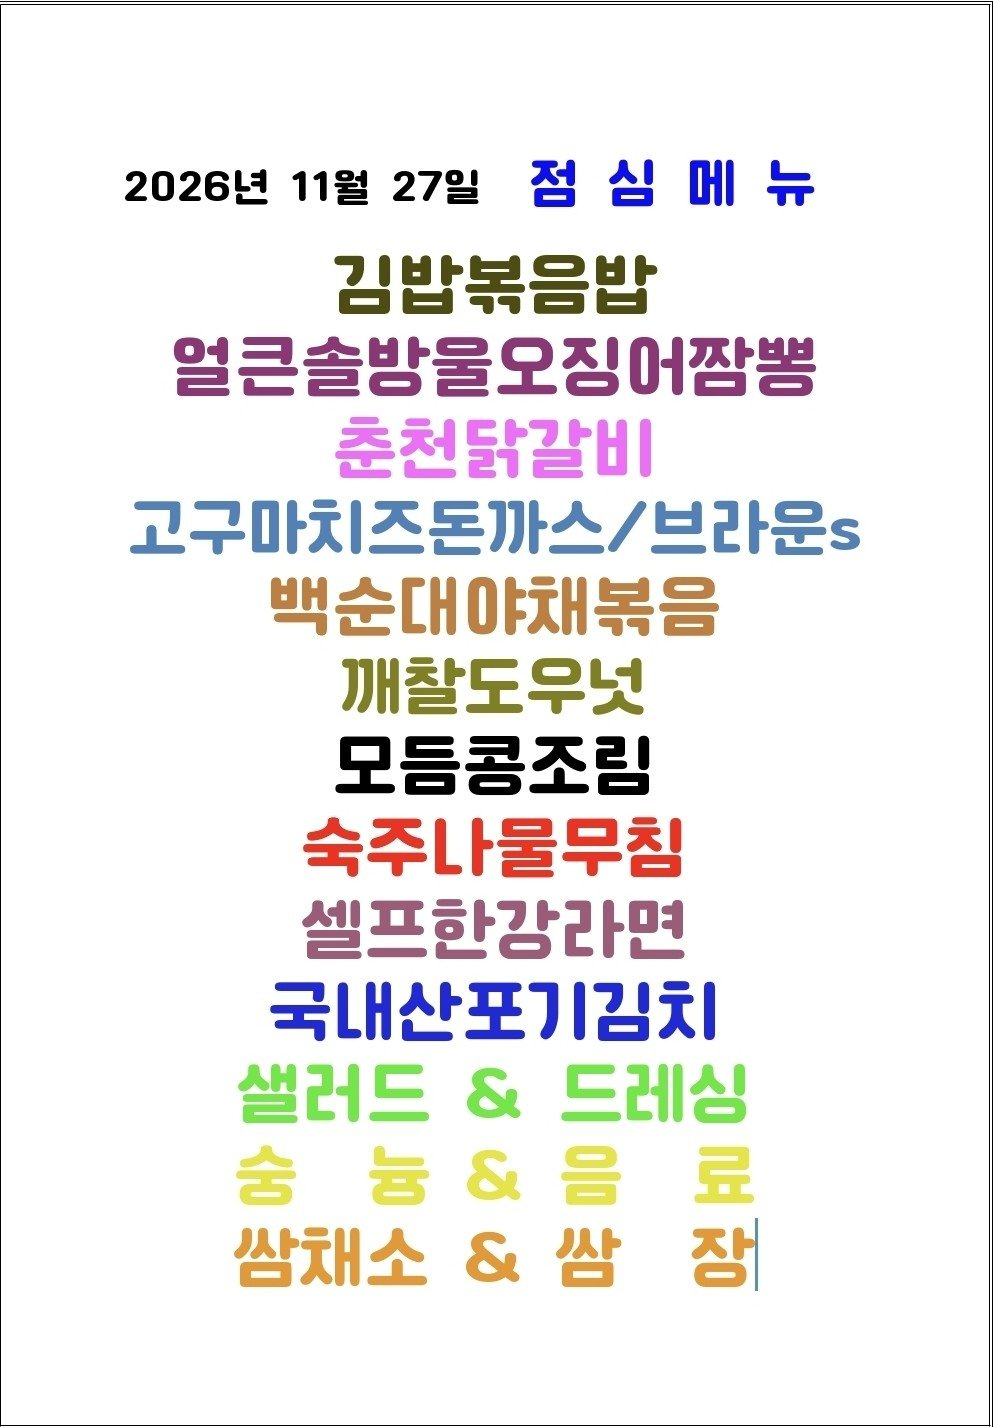
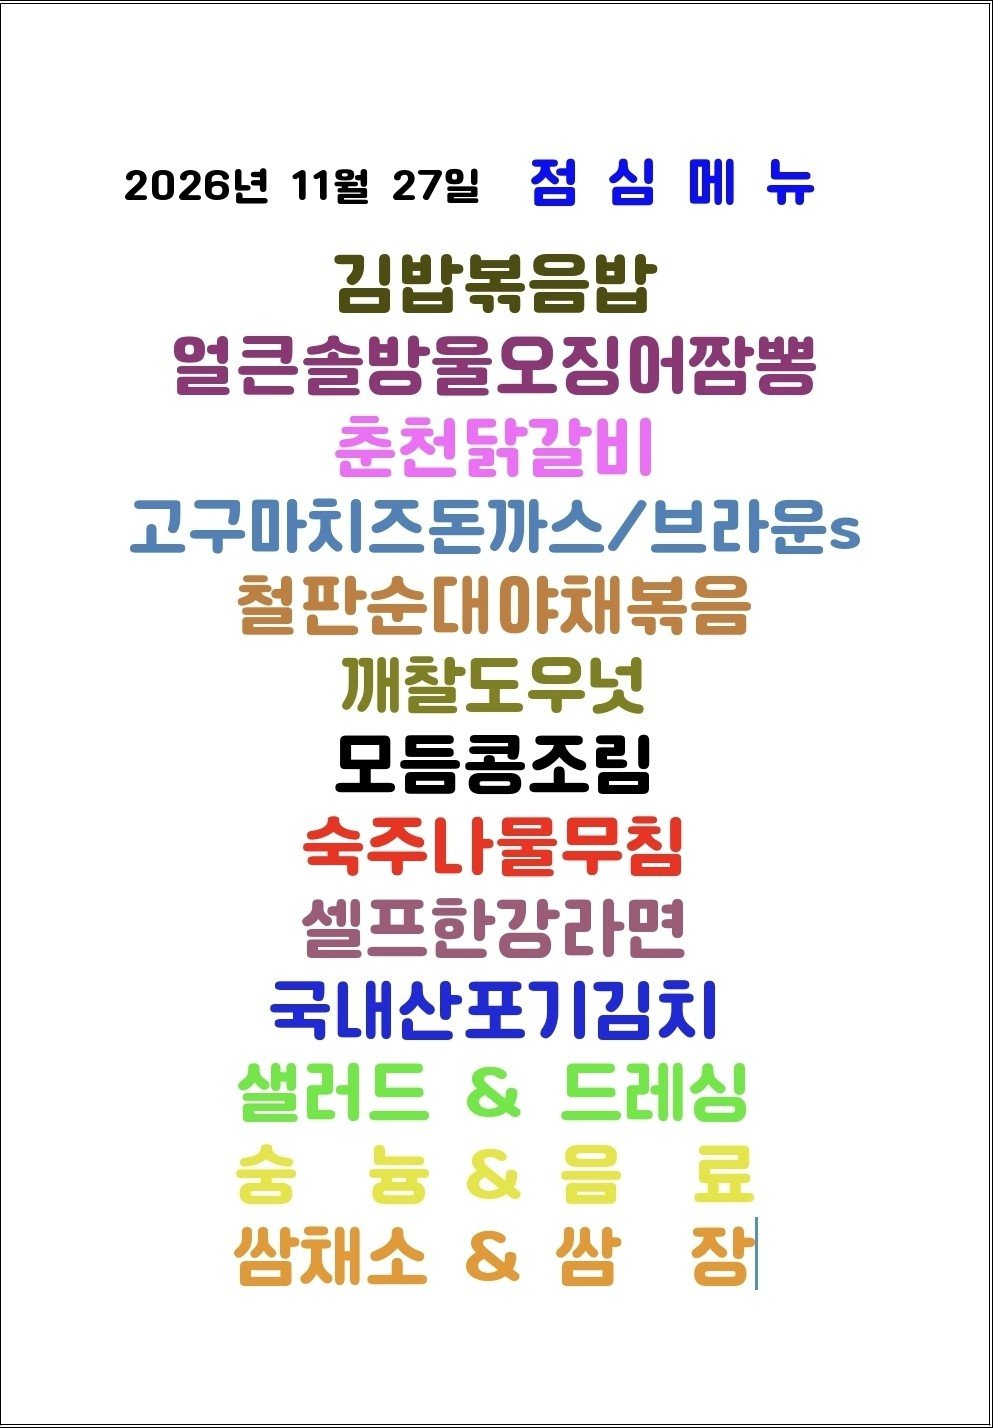
Update menu board assets

diff --git a/guro-menu/index.html b/guro-menu/index.html
@@ -32,7 +32,7 @@
   </header>
   <section class="meta">
     <div><small>기준 날짜</small><strong>2026년 11월 27일 금요일</strong></div>
-    <div><small>최종 갱신</small><strong>2026-11-27 10:42:53</strong></div>
+    <div><small>최종 갱신</small><strong>2026-11-27 10:48:21</strong></div>
     <div><small>등록 식당</small><strong>5개</strong></div>
   </section>
   <div class="notice">공개 카카오 채널의 메뉴 이미지를 자동 수집하고 OCR로 정리합니다. 텍스트에 오타가 있을 수 있으니 식단 이미지를 함께 확인해 주세요.</div>
@@ -46,9 +46,9 @@
           </div>
           <a class="channel" href="https://pf.kakao.com/_QRALxb" target="_blank" rel="noopener">원본 채널</a>
         </div>
-        <div class="image-pending">메뉴 이미지 확인 중</div>
-        <p class="message">오늘 메뉴 이미지를 가져오지 못했습니다.</p>
+        <img class="menu-image" src="./images/hanshin-it.png" alt="한신IT타워 구내식당 식단 이미지" loading="lazy">
         
+        <ul><li>떡만듯국</li><li>오삼불고기</li><li>멘츠까스*레몬타르소스</li><li>한입떡갈비구이*강정소스</li><li>새콤비빔국수</li><li>어묵미역줄기볶음</li><li>매콤감자조림</li><li>야채겉절이</li><li>포기겸치</li><li>흑미밥/백미밥</li><li>양배추샐러드&amp;키위드레싱</li><li>탄산음료</li></ul>
       </article>
 
       <article class="restaurant-card">
@@ -60,8 +60,8 @@
           </div>
           <a class="channel" href="https://pf.kakao.com/_xcvRLxb" target="_blank" rel="noopener">원본 채널</a>
         </div>
-        <div class="image-pending">메뉴 이미지 확인 중</div>
-        <p class="message">오늘 메뉴 이미지를 가져오지 못했습니다.</p>
+        <img class="menu-image" src="./images/nature-food.png" alt="자연푸드 구내식당 식단 이미지" loading="lazy">
+        <p class="message">공개 채널에서 최신 메뉴 이미지 제공 방식을 확인 중입니다.</p>
         
       </article>
 
@@ -74,9 +74,9 @@
           </div>
           <a class="channel" href="https://pf.kakao.com/_xeVwxnn" target="_blank" rel="noopener">원본 채널</a>
         </div>
-        <div class="image-pending">메뉴 이미지 확인 중</div>
-        <p class="message">오늘 메뉴 이미지를 가져오지 못했습니다.</p>
+        <img class="menu-image" src="./images/the-eats-food.png" alt="더이츠푸드 식단 이미지" loading="lazy">
         
+        <ul><li>쌀밥/흑미잡곡밥</li><li>들깨미역국</li><li>카레라이스</li><li>치킨텐더&amp;머스타드</li><li>옛날떡볶이</li><li>야끼만두</li><li>야채겉절이</li><li>수제겉절이김치 0</li><li>그린샐러드&amp;드레싱 %</li><li>고구마매쉬샌드위치 Y</li></ul>
       </article>
 
       <article class="restaurant-card">
@@ -88,9 +88,9 @@
           </div>
           <a class="channel" href="https://pf.kakao.com/_xdLzxgG" target="_blank" rel="noopener">원본 채널</a>
         </div>
-        <div class="image-pending">메뉴 이미지 확인 중</div>
-        <p class="message">오늘 메뉴 이미지를 가져오지 못했습니다.</p>
+        <img class="menu-image" src="./images/byucksan-theirum.png" alt="벽산더이룸 식단 이미지" loading="lazy">
         
+        <ul><li>백미밥/잡곡밥</li><li>김치콩나물국</li><li>Ven 연탄불고기</li><li>모듬땅콩강정</li><li>UP 부추전&amp;간장소스</li><li>고추장쥐어채볶음</li><li>새콤딜콤 쪽파무생채</li><li>백김치</li><li>숭늉/탄산음료</li><li>A: 국산 / HAA (HA, DE7RSRA</li><li>기타 원산지 표시는 카운터에 부착되어 있습니다</li></ul>
       </article>
 
       <article class="restaurant-card">
@@ -102,9 +102,9 @@
           </div>
           <a class="channel" href="https://pf.kakao.com/_Xxhxkhs" target="_blank" rel="noopener">원본 채널</a>
         </div>
-        <div class="image-pending">메뉴 이미지 확인 중</div>
-        <p class="message">오늘 메뉴 이미지를 가져오지 못했습니다.</p>
+        <img class="menu-image" src="./images/yoon-chef-kolon.png" alt="윤쉐프 코오롱 식단 이미지" loading="lazy">
         
+        <ul><li>댄지김지찌개</li><li>파재간장불백</li><li>옛날소세지전&amp;케잡</li><li>비빔야채국수</li><li>잡곡밥/백미밥</li><li>그린샐러드&amp;쌈채소</li><li>셀프라면&amp;토스트</li><li>탄산음료/망고주스</li></ul>
       </article>
   </section>
   <section class="seo" aria-label="검색 정보">한신IT타워 구내식당 자연푸드 구내식당 더이츠푸드 벽산더이룸 윤쉐프 코오롱 한신IT타워 벽산디지털밸리7차 대륭포스트타워1차 벽산디지털밸리1차 코오롱싸이언스밸리1차 서울 구로구 디지털로 272 한신IT타워 지하1층 서울 구로구 디지털로33길 50 벽산디지털밸리7차 지하1층 서울 구로구 디지털로 288 대륭포스트타워1차 지하1층 서울 구로구 디지털로27길 24 벽산디지털밸리1차 지하1층 서울 구로구 디지털로34길 43 코오롱싸이언스밸리1차 지하1층</section>

diff --git a/menu-today/index.html b/menu-today/index.html
@@ -209,7 +209,7 @@
 
     <section class="meta-bar">
       <div class="meta-card"><div class="meta-label">기준 날짜</div><div class="meta-value">2026년 11월 27일 금요일</div></div>
-      <div class="meta-card"><div class="meta-label">최종 가져온 시간</div><div class="meta-value">2026-11-27 10:40:21</div></div>
+      <div class="meta-card"><div class="meta-label">최종 가져온 시간</div><div class="meta-value">2026-11-27 10:48:08</div></div>
       <div class="meta-card"><div class="meta-label">확인 완료</div><div class="meta-value">9개 식당</div></div>
       <div class="meta-card"><div class="meta-label">준비중</div><div class="meta-value">3개 채널</div></div>
     </section>
@@ -265,7 +265,7 @@
             <div class="sub">가산비즈니스센터</div>
           </div>
         </div>
-        <div class="menu-inline-image"><img src="./images/raonfood.png" alt="구내식당라온푸드 식단 이미지"></div><ul><li>김밥볶음밥</li><li>준전닭갈</li><li>고구마지즈돈까스 / 브라운</li><li>백순대마재볶음</li><li>모듬콤소림</li><li>숙주나물무침</li><li>샐러드 &amp; 드레싱</li><li>여크수바으</li><li>져다가</li><li>백순대매재볶음</li></ul>
+        <div class="menu-inline-image"><img src="./images/raonfood.png" alt="구내식당라온푸드 식단 이미지"></div><ul><li>준전닭갈</li><li>고구마지즈돈까스 / 브라운</li><li>철판순대마재볶음</li><li>모듬콤소림</li><li>숙주나물무침</li><li>샐러드 &amp; 드레싱</li><li>쌈재소 &amp; 쌈 잠</li><li>김밥볶음밥</li><li>져다가</li></ul>
       </article>
 
       <article class="restaurant-card">
